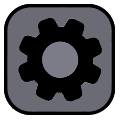
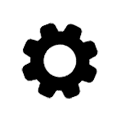
Added the setting menu stuff ready for nexxt update

diff --git a/main.py b/main.py
@@ -241,6 +241,7 @@ RU3_Cost = 1
 shop_menu = pygame.Rect(420, 720, 440, 140)
 Rebirth_menu = pygame.Rect(24, 227, 110, 110)
 Tier_menu = pygame.Rect(24, 427, 110, 110)
+setting_menu = pygame.Rect(10, 10, 70, 70)
 
 Clicks_Amount_Box = pygame.Rect(100, 20, 350, 100)
 Rebirth_Amount_Box = pygame.Rect(500, 20, 350, 100)
@@ -254,6 +255,7 @@ Rebirth_Menu_Button = pygame.image.load("Rebirth_Button.png")
 Tier_Menu_Button =  pygame.image.load("Tier_Button.png")
 Shop_Menu_Button = pygame.image.load("Shop_Button.png")
 Click_Button = pygame.image.load("Click_Button.png")
+settings_Button = pygame.image.load("Setting_Button.png")
 
 click_amount = pygame.image.load("click_amount.png")
 rebirth_amount = pygame.image.load("rebirth_amount.png")
@@ -671,6 +673,11 @@ while running:
                     if Menu == 0:
                         Menu = 12
 
+                if setting_menu.collidepoint(mouse_pos):
+                    #Open Rebirth menu
+                    if Menu == 0:
+                        Menu = 52
+
                 elif shop_menu.collidepoint(mouse_pos):
                     # Open Shop
                     if Menu == 0:
@@ -887,6 +894,7 @@ while running:
     if current_tier >= 1:
         screen.blit(Rebirth_Menu_Button, (25, 227))
     screen.blit(Tier_Menu_Button, (25, 427))
+    screen.blit(settings_Button, (-10, -10))
     screen.blit(Clicks_AR, CurrencyBox1)
     screen.blit(Rebirth_AR, CurrencyBox2)
     screen.blit(Xp_AR, CurrencyBox3)
@@ -905,6 +913,9 @@ while running:
             screen.blit(Shown_Menu, (0, 0))
         if Menu == 12:
             Shown_Menu = pygame.image.load("Tier_Menu.png")
+            screen.blit(Shown_Menu, (0, 0))
+        if Menu == 52:
+            Shown_Menu = pygame.image.load("Settings_Menu.png")
             screen.blit(Shown_Menu, (0, 0))
 
         if Menu <= 9:

diff --git a/README.md b/README.md
@@ -6,7 +6,7 @@
  - Tiers 6 -> 10
  - Visual Change P3
  - Huge Bug Fixes and Changes
- - Settings
+
 
 
  -------------
@@ -16,6 +16,7 @@ V3:
 - Sacrifices
 - The Sacrifice Upgrade Tree (#1 -> #6)
 - Tiers 11 - 12
+- Settings
 V4:
 - The Sacrifice Upgrade Tree (#7 -> #12)
 - Tiers 13 - 15